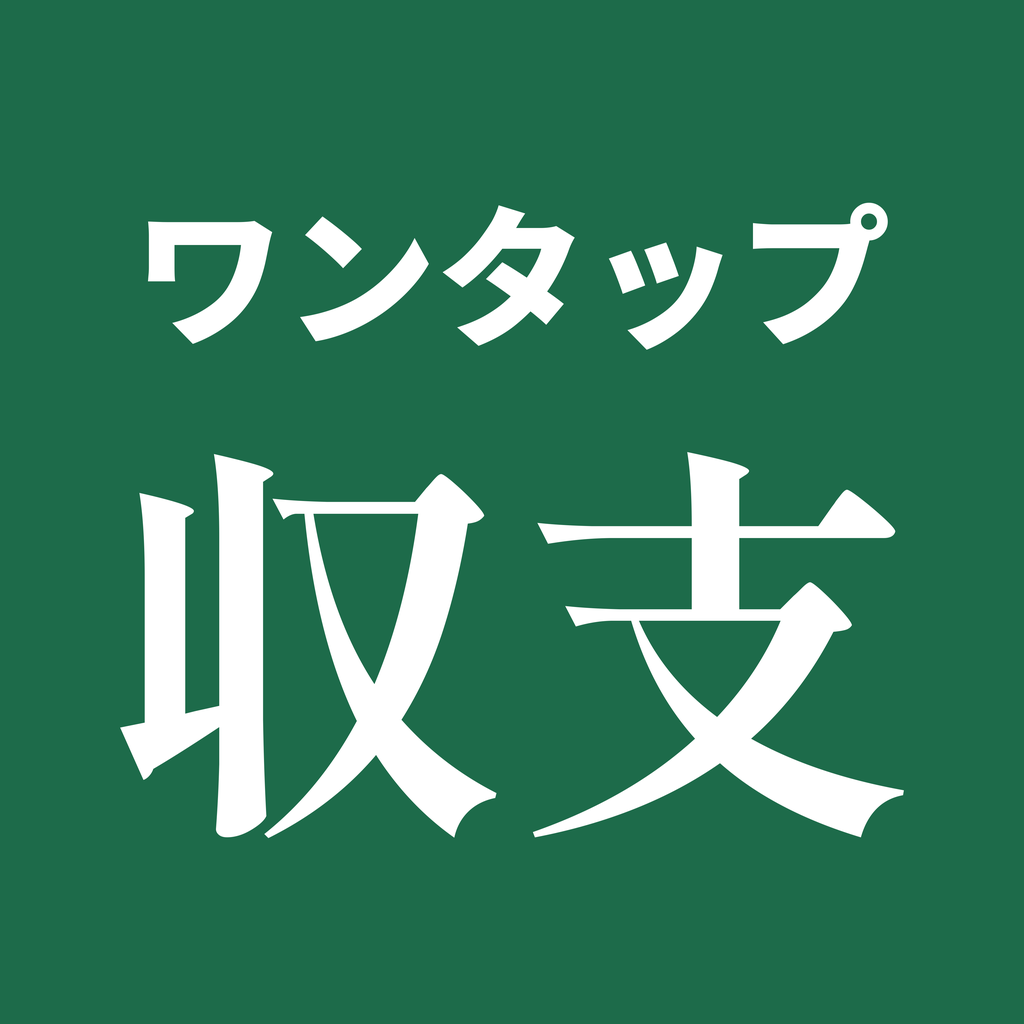
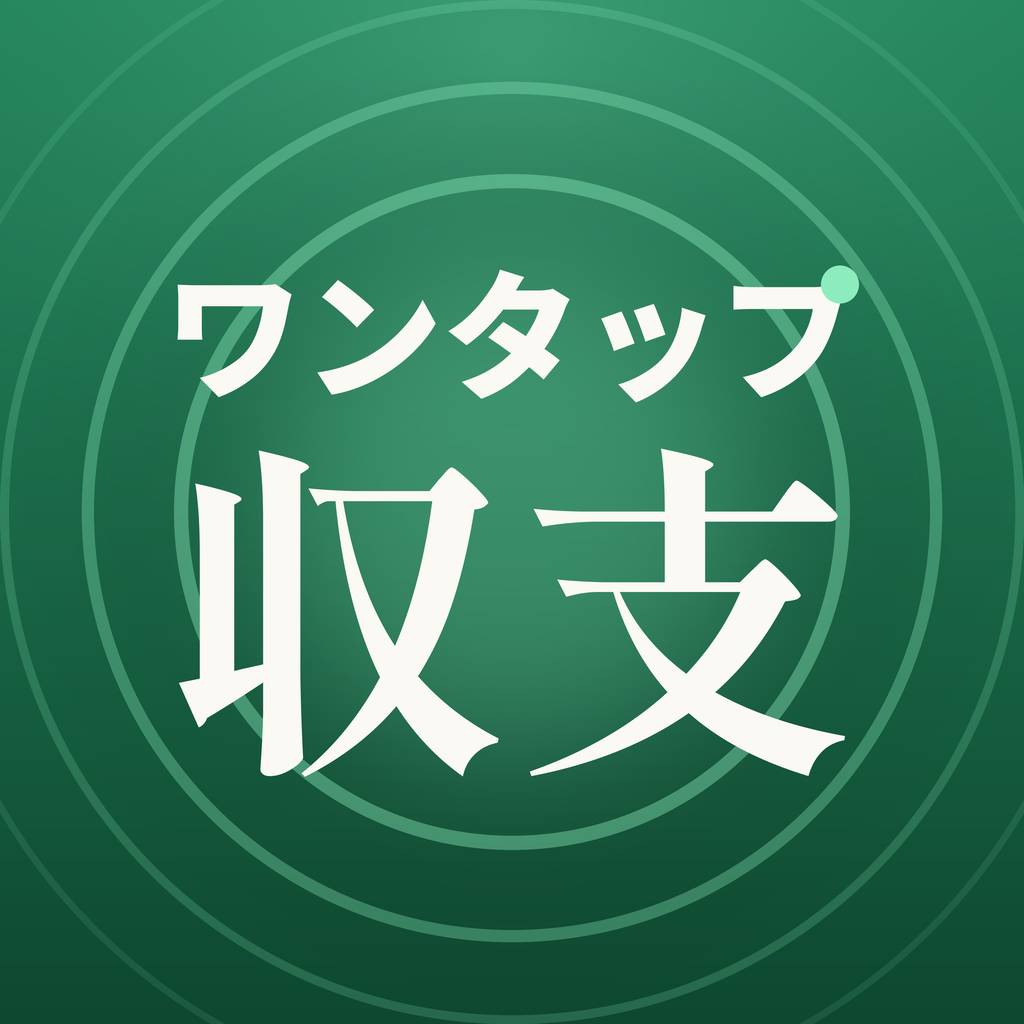
アイコンを磨いた：真ん中から広がる波紋、横幅をそろえたロゴ、奥行きのある緑
- 「ワンタップ」はゴシック、「収支」は明朝で、2行の横幅をぴったりそろえた
- 「プ」の゜をミント色のタップの点に
- tools/app/make-icon.py の --style で別案（dot / plain）も作れる

diff --git a/tools/app/make-icon.py b/tools/app/make-icon.py
@@ -1,27 +1,36 @@
-# Draws the app icon: "ワンタップ" (bold gothic) over a large "収支" (the app's Mincho), white on the
-# app's plus green. Two lines so the words stay readable at home-screen size.
+# Draws the app icon: "ワンタップ" over "収支" as one lockup, white on a deep green, and the
+# semi-voiced mark of プ (゜) turned into a fingertip tap with ripples spreading from it.
+# Design notes: tools/app/icon-design.md
 # Output: tools/app/ios-icon-1024.png (1024x1024 RGB, no transparency), then run
 #   powershell -ExecutionPolicy Bypass -File tools\app\make-ios-assets.ps1
-# Usage: python tools/app/make-icon.py   (needs Pillow)
+# Usage: python tools/app/make-icon.py [--style center|dot|plain] [--mincho] [--out FILE]   (needs Pillow and numpy)
+#   The app uses the defaults: ripples from the middle, ワンタップ in gothic.
 # Fonts (SIL Open Font License), only the characters used, next to this script:
-#   Noto Sans JP Black, Shippori Mincho ExtraBold
+#   Shippori Mincho ExtraBold, Noto Sans JP Black
+import argparse
 from pathlib import Path
 
-from PIL import Image, ImageDraw, ImageFont
+import numpy as np
+from PIL import Image, ImageChops, ImageDraw, ImageFilter, ImageFont
 
 HERE = Path(__file__).parent
 SIZE, S = 1024, 4                     # draw at 4x and shrink, for clean edges
 N = SIZE * S
 
-GREEN = (29, 107, 74)                 # --plus
-WHITE = (255, 255, 255)
-SANS = HERE / 'NotoSansJP-Black-icon.ttf'
+TOP, BOTTOM = (36, 132, 92), (14, 72, 48)    # green, lit from above (the app's plus green sits between)
+INK = (250, 249, 244)                         # warm white
+MINT = (140, 236, 190)                        # the tap
 MINCHO = HERE / 'ShipporiMincho-ExtraBold-icon.ttf'
+GOTHIC = HERE / 'NotoSansJP-Black-icon.ttf'
+
+BLOCK_W = 0.68                        # both lines exactly this wide: one lockup, with room inside the rounded corners
+GAP = 0.045                           # between the lines
 
 
-def fit(d, text, path, width):
-    """Largest font size at which text is at most width wide."""
-    lo, hi = 10, 3000
+def fit(text, path, width):
+    """Font size at which text is exactly width wide (ink, not advance)."""
+    d = ImageDraw.Draw(Image.new('L', (1, 1)))
+    lo, hi = 10, 4000
     while lo < hi:
         m = (lo + hi + 1) // 2
         l, _, r, _ = d.textbbox((0, 0), text, font=ImageFont.truetype(str(path), m))
@@ -29,18 +38,130 @@ def fit(d, text, path, width):
     return ImageFont.truetype(str(path), lo)
 
 
-def put(d, text, font, cx, cy):
-    l, t, r, b = d.textbbox((0, 0), text, font=font)
-    d.text((cx - (l + r) / 2, cy - (t + b) / 2), text, font=font, fill=WHITE)
+def background():
+    y = np.linspace(0, 1, N, dtype=np.float32)[:, None]
+    top, bottom = np.array(TOP, np.float32), np.array(BOTTOM, np.float32)
+    col = top + (bottom - top) * (y ** 1.15)[..., None]
+    img = np.broadcast_to(col, (N, 1, 3)).repeat(N, axis=1)
+    # a soft light from the top centre
+    yy, xx = np.mgrid[0:N:16, 0:N:16].astype(np.float32) / N
+    glow = np.clip(1 - np.hypot(xx - 0.5, (yy - 0.05) * 1.3) / 0.75, 0, 1) ** 2 * 26
+    glow = np.asarray(Image.fromarray(glow.astype(np.float32)).resize((N, N), Image.BICUBIC))
+    return Image.fromarray(np.clip(img + glow[..., None], 0, 255).astype(np.uint8))
+
+
+def text_layer(text, font, xy):
+    m = Image.new('L', (N, N), 0)
+    ImageDraw.Draw(m).text(xy, text, font=font, fill=255)
+    return m
+
+
+def pieces_of(mask):
+    """Separate 4-connected pieces of a boolean mask, as arrays of (y, x)."""
+    h, w = mask.shape
+    seen, out = np.zeros_like(mask), []
+    for sy, sx in zip(*np.nonzero(mask)):
+        if seen[sy, sx]:
+            continue
+        stack, cells = [(sy, sx)], []
+        seen[sy, sx] = True
+        while stack:
+            cy, cx = stack.pop()
+            cells.append((cy, cx))
+            for ny, nx in ((cy + 1, cx), (cy - 1, cx), (cy, cx + 1), (cy, cx - 1)):
+                if 0 <= ny < h and 0 <= nx < w and mask[ny, nx] and not seen[ny, nx]:
+                    seen[ny, nx] = True
+                    stack.append((ny, nx))
+        out.append(np.array(cells))
+    return out
+
+
+def handakuten(font, x, y):
+    """Centre and outer radius of the ゜ of プ as set in the line.
+    Found by its hole (the empty inside of the little circle), which works even when the ゜ touches the stroke."""
+    # プ is the last glyph, so it ends where the line ends: draw it alone, right-aligned to the line's ink
+    d = ImageDraw.Draw(Image.new('L', (1, 1)))
+    line_r = d.textbbox((x, y), 'ワンタップ', font=font)[2]
+    _, _, pr, _ = d.textbbox((0, 0), 'プ', font=font)
+    pu = np.asarray(text_layer('プ', font, (line_r - pr, y)))
+    ys, xs = np.nonzero(pu > 100)
+    oy, ox = ys.min() - 2, xs.min() - 2
+    ink = pu[oy:ys.max() + 3, ox:xs.max() + 3] > 128
+    h, w = ink.shape
+    holes = [p for p in pieces_of(~ink)
+             if p[:, 0].min() > 0 and p[:, 1].min() > 0 and p[:, 0].max() < h - 1 and p[:, 1].max() < w - 1]
+    hole = max(holes, key=len)                           # the inside of ゜ (プ has no other closed space)
+    hy, hx = hole[:, 0].mean(), hole[:, 1].mean()
+    r_in = (hole[:, 1].max() - hole[:, 1].min()) / 2
+    # ring thickness: from the hole's edge outwards until the background, looking up (away from the stroke)
+    yy = int(hy - r_in) - 1
+    t = 0
+    while yy - t >= 0 and ink[yy - t, int(hx)]:
+        t += 1
+    return float(hx + ox), float(hy + oy), float(r_in + t)
 
 
 def main():
-    img = Image.new('RGB', (N, N), GREEN)
+    ap = argparse.ArgumentParser()
+    ap.add_argument('--style', choices=['center', 'dot', 'plain'], default='center',
+                    help='center: ripples from the middle (the app icon); dot: ripples from the ゜ of プ; plain: no tap')
+    ap.add_argument('--mincho', action='store_true', help='set ワンタップ in Mincho instead of gothic')
+    ap.add_argument('--out', default=str(HERE / 'ios-icon-1024.png'))
+    a = ap.parse_args()
+    a.center, a.no_tap, a.gothic = a.style == 'center', a.style == 'plain', not a.mincho
+
+    img = background()
+    if a.center:
+        # the whole icon is the moment of the tap: ripples spreading from the middle, behind the lettering
+        c = N / 2
+        glow = Image.new('RGBA', (N, N), (0, 0, 0, 0))
+        G = N * 0.30
+        ImageDraw.Draw(glow).ellipse((c - G, c - G, c + G, c + G), fill=MINT + (70,))
+        glow = glow.filter(ImageFilter.GaussianBlur(N * 0.09))
+        img.paste(glow, (0, 0), glow)
+        rings = Image.new('RGBA', (N, N), (0, 0, 0, 0))
+        rd = ImageDraw.Draw(rings)
+        for rad, width, alpha in [(0.33, 0.014, 105), (0.42, 0.012, 85), (0.5, 0.009, 50), (0.58, 0.007, 28)]:
+            R = N * rad
+            rd.ellipse((c - R, c - R, c + R, c + R), outline=MINT + (alpha,), width=int(N * width))
+        img.paste(rings, (0, 0), rings)
     d = ImageDraw.Draw(img)
-    put(d, 'ワンタップ', fit(d, 'ワンタップ', SANS, int(N * 0.74)), N / 2, N * 0.27)
-    put(d, '収支', fit(d, '収支', MINCHO, int(N * 0.80)), N / 2, N * 0.63)
-    img.resize((SIZE, SIZE), Image.LANCZOS).save(HERE / 'ios-icon-1024.png')
-    print('wrote', HERE / 'ios-icon-1024.png')
+    w = int(N * BLOCK_W)
+    f1 = fit('ワンタップ', GOTHIC if a.gothic else MINCHO, w)
+    f2 = fit('収支', MINCHO, w)
+    b1, b2 = d.textbbox((0, 0), 'ワンタップ', font=f1), d.textbbox((0, 0), '収支', font=f2)
+    h1, h2, gap = b1[3] - b1[1], b2[3] - b2[1], int(N * GAP)
+    top = (N - (h1 + gap + h2)) / 2 + N * 0.01          # optical centre sits a touch low because of the tap above
+    x1, y1 = (N - (b1[2] - b1[0])) / 2 - b1[0], top - b1[1]
+    x2, y2 = (N - (b2[2] - b2[0])) / 2 - b2[0], top + h1 + gap - b2[1]
+
+    d.text((x1, y1), 'ワンタップ', font=f1, fill=INK)
+    d.text((x2, y2), '収支', font=f2, fill=INK)
+
+    if a.center:
+        # the ゜ of プ in the tap colour, a small echo of the ripples
+        cx, cy, r0 = handakuten(f1, x1, y1)
+        r = r0 * 1.1
+        ImageDraw.Draw(img).ellipse((cx - r, cy - r, cx + r, cy + r), fill=MINT)
+    elif not a.no_tap:
+        cx, cy, r0 = handakuten(f1, x1, y1)
+        # the tap, drawn over the ゜: ripples fading as they spread, a glow, and a solid fingertip point
+        r = max(r0 * 1.5, N * 0.034)
+        layer = Image.new('RGBA', (N, N), (0, 0, 0, 0))
+        ld = ImageDraw.Draw(layer)
+        for scale, width, color in [(2.2, 0.26, MINT + (215,)), (3.3, 0.18, MINT + (120,)), (4.4, 0.12, (255, 255, 255, 55))]:
+            R, sw = r * scale, max(1, int(r * width))
+            ld.ellipse((cx - R, cy - R, cx + R, cy + R), outline=color, width=sw)
+        halo = Image.new('RGBA', (N, N), (0, 0, 0, 0))
+        H = r * 1.8
+        ImageDraw.Draw(halo).ellipse((cx - H, cy - H, cx + H, cy + H), fill=MINT + (110,))
+        halo = halo.filter(ImageFilter.GaussianBlur(float(r * 0.6)))
+        img.paste(halo, (0, 0), halo)
+        img.paste(layer, (0, 0), layer)
+        ImageDraw.Draw(img).ellipse((cx - r, cy - r, cx + r, cy + r), fill=MINT)
+
+    img.resize((SIZE, SIZE), Image.LANCZOS).save(a.out)
+    print('wrote', a.out)
 
 
 if __name__ == '__main__':

diff --git a/tools/app/icon-design.md b/tools/app/icon-design.md
@@ -1,7 +1,11 @@
 # アイコンの考え方
 
-- 「ワンタップ」（太いゴシック）と「収支」（アプリの金額と同じ明朝）の2段。1行に7文字並べると小さくて読めないため。
-- 白い文字に、アプリの「プラス」の緑 #1D6B4A。勝ちの色で、ホーム画面でいちばん目を引く。
+- 「ワンタップ」（太いゴシック）と「収支」（アプリの金額と同じ明朝）を、横幅をぴったりそろえた1つのロゴにする。
+- アイコン全体が「タップした瞬間」：真ん中から波紋が広がる（文字の後ろ）。外へ行くほど薄く細く。
+- 「プ」の゜はミント色の点にして、タップの跡と波紋の色をそろえる。
+- 背景は上が明るく下が深い緑のグラデーション（アプリの「プラス」の緑 #1D6B4A がその間に入る）。
+- ロゴは幅の68%。iPhoneの角丸で切られない余白をとる。
 - ホーム画面の小ささ（60px 前後）でも「収支」がはっきり、「ワンタップ」も読めることを優先する。
 
 作り方：`python tools/app/make-icon.py` → `powershell -ExecutionPolicy Bypass -File tools\app\make-ios-assets.ps1`
+（ほかの案：`--style dot`＝「プ」の゜から波紋、`--style plain`＝波紋なし、`--mincho`＝ワンタップも明朝）
